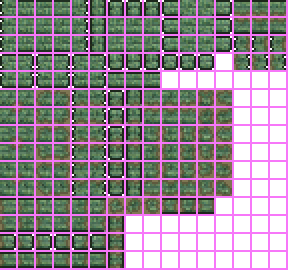
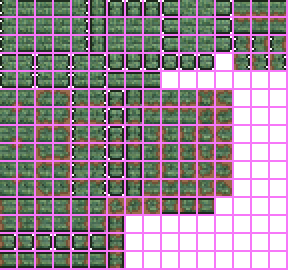
More Vrystak Nines qork

diff --git a/World/Biomes/CrystalMinesTest.cs b/World/Biomes/CrystalMinesTest.cs
@@ -179,6 +179,7 @@ internal class CrystalMinesTest
                         WorldGen.SquareWallFrame(i, j);
                     }
                 }
+
                 #region horizontal tunnels
                 if (j >= origin.Y + tunnel1YPos && j <= origin.Y + tunnel1YPos + tunnelHeight ||
                     j >= origin.Y + tunnel2YPos && j <= origin.Y + tunnel2YPos + tunnelHeight ||
@@ -190,19 +191,34 @@ internal class CrystalMinesTest
                     if (!Main.tileDungeon[tile.TileType] && !Main.wallDungeon[tile.WallType] && tile.TileType != TileID.LihzahrdBrick)
                     {
                         WorldGen.stopDrops = true;
-                        WorldGen.KillTile(i, j, noItem: true);
+                        tile.HasTile = false;
+                        //WorldGen.KillTile(i, j, noItem: true);
                         WorldGen.stopDrops = false;
                     }
                     WorldGen.noTileActions = false;
                 }
                 #endregion horizontal tunnels
 
+                #region wood
+                if (j == origin.Y + tunnel1YPos ||
+                    j == origin.Y + tunnel2YPos ||
+                    j == origin.Y + tunnel3YPos ||
+                    j == origin.Y + tunnel4YPos)
+                {
+                    if (!Main.tileDungeon[tile.TileType] && !Main.wallDungeon[tile.WallType] && tile.TileType != TileID.LihzahrdBrick)
+                    {
+                        WorldGen.PlaceTile(i, j, TileID.WoodBlock, true);
+                    }
+                }
+                #endregion
+
                 #region vertical tunnels
                 if (j >= origin.Y + tunnel1YPos && j <= origin.Y + tunnel2YPos &&
                     i >= vTunnel1PosStart && i <= vTunnel1PosEnd)
                 {
                     WorldGen.noTileActions = true;
-                    if (!Main.tileDungeon[tile.TileType] && !Main.wallDungeon[tile.WallType] && tile.TileType != TileID.LihzahrdBrick)
+                    if (!Main.tileDungeon[tile.TileType] && !Main.wallDungeon[tile.WallType] && tile.TileType != TileID.LihzahrdBrick &&
+                         tile.TileType != TileID.WoodBlock)
                         tile.HasTile = false;
                     WorldGen.noTileActions = false;
                 }
@@ -210,7 +226,8 @@ internal class CrystalMinesTest
                     i >= vTunnel2PosStart && i <= vTunnel2PosEnd)
                 {
                     WorldGen.noTileActions = true;
-                    if (!Main.tileDungeon[tile.TileType] && !Main.wallDungeon[tile.WallType] && tile.TileType != TileID.LihzahrdBrick)
+                    if (!Main.tileDungeon[tile.TileType] && !Main.wallDungeon[tile.WallType] && tile.TileType != TileID.LihzahrdBrick &&
+                         tile.TileType != TileID.WoodBlock)
                         tile.HasTile = false;
                     WorldGen.noTileActions = false;
                 }
@@ -218,7 +235,8 @@ internal class CrystalMinesTest
                     i >= vTunnel3PosStart && i <= vTunnel3PosEnd)
                 {
                     WorldGen.noTileActions = true;
-                    if (!Main.tileDungeon[tile.TileType] && !Main.wallDungeon[tile.WallType] && tile.TileType != TileID.LihzahrdBrick)
+                    if (!Main.tileDungeon[tile.TileType] && !Main.wallDungeon[tile.WallType] && tile.TileType != TileID.LihzahrdBrick &&
+                         tile.TileType != TileID.WoodBlock)
                         tile.HasTile = false;
                     WorldGen.noTileActions = false;
                 }
@@ -226,7 +244,8 @@ internal class CrystalMinesTest
                     i >= vTunnel4PosStart && i <= vTunnel4PosEnd)
                 {
                     WorldGen.noTileActions = true;
-                    if (!Main.tileDungeon[tile.TileType] && !Main.wallDungeon[tile.WallType] && tile.TileType != TileID.LihzahrdBrick)
+                    if (!Main.tileDungeon[tile.TileType] && !Main.wallDungeon[tile.WallType] && tile.TileType != TileID.LihzahrdBrick &&
+                         tile.TileType != TileID.WoodBlock)
                         tile.HasTile = false;
                     WorldGen.noTileActions = false;
                 }

diff --git a/AvalonWorld.cs b/AvalonWorld.cs
@@ -285,13 +285,12 @@ public class AvalonWorld : ModSystem
         {
             float Strength = ModContent.GetInstance<BiomeTileCounts>().TropicsTiles / 200f;
             Strength = Math.Min(Strength, 1f);
-            // DOES NOT MAKE SKY ORANGE
             int sunR = backgroundColor.R;
             int sunG = backgroundColor.G;
             int sunB = backgroundColor.B;
             sunR -= (int)(0f * Strength * 2 * (backgroundColor.R / 255f));
-            sunB -= (int)(200f * Strength * 2 * (backgroundColor.B / 255f));
-            sunG -= (int)(50f * Strength * 2 * (backgroundColor.G / 255f));
+            sunB -= (int)(100f * Strength * 1.85f * (backgroundColor.B / 255f)); // 200
+            sunG -= (int)(50f * Strength * 1.85f * (backgroundColor.G / 255f)); // 50
             sunR = Utils.Clamp(sunR, 15, 255);
             sunG = Utils.Clamp(sunG, 15, 255);
             sunB = Utils.Clamp(sunB, 15, 255);
@@ -487,8 +486,8 @@ public class AvalonWorld : ModSystem
     }
     public void CrystalMinesCallback(object threadContext)
     {
-        if (!SuperHardmode)
-            return;
+        //if (!SuperHardmode)
+        //    return;
         if (Main.netMode == NetmodeID.SinglePlayer)
         {
             Main.NewText("Otherworldly crystals begin to grow...", 176, 153, 214); // [c/7BBAE4:The ot][c/90ABDD:herwo][c/A3A0D9:rldly] [c/B099D6:cryst][c/BA92D4:als] [c/BA92D4:be][c/C88AD1:gin to] [c/D881CD:grow][c/E37BCB:...]
@@ -496,6 +495,29 @@ public class AvalonWorld : ModSystem
         else if (Main.netMode == NetmodeID.Server)
         {
             ChatHelper.BroadcastChatMessage(NetworkText.FromLiteral("Otherworldly crystals begin to grow..."), new Color(176, 153, 214));
+        }
+        float num611 = Main.maxTilesX * Main.maxTilesY / 5040000f;
+        int amtOfBiomes = (int)((float)(Main.maxTilesX / 4200) * 2 + 1);
+        //int num612 = (int)(WorldGen.genRand.Next(2, 4) * num611);
+        float num613 = (Main.maxTilesX - 160) / amtOfBiomes;
+        int num614 = 0;
+        while (num614 < amtOfBiomes) // amtofbiomes
+        {
+            float num615 = (float)num614 / amtOfBiomes;
+            Point point = WorldGen.RandomRectanglePoint((int)(num615 * (Main.maxTilesX - 160)) + 80, (int)Main.rockLayer + 20, (int)num613, Main.maxTilesY - ((int)Main.rockLayer + 40) - 250);
+            //CrystalMinesRunner(point.X, point.Y, 150, 150);
+            //Biomes<World.Biomes.CrystalMinesHouseBiome>.Place(new Point(point.X, point.Y), null);
+            //num614++;
+            WorldGenConfiguration config = WorldGenConfiguration.FromEmbeddedPath("Terraria.GameContent.WorldBuilding.Configuration.json");
+            //World.Biomes.CrystalMines crystalMines = config.CreateBiome<Biomes.CrystalMines>();
+            if (World.Biomes.CrystalMinesTest.Place(point))//World.Biomes.CrystalMinesTest
+            {
+                World.Biomes.CrystalMinesHouseBiome crystalHouse = config.CreateBiome<World.Biomes.CrystalMinesHouseBiome>();
+                int xpos = WorldGen.genRand.Next(point.X + 20, point.X + 30);
+                int ypos = WorldGen.genRand.Next(point.Y + 20, point.Y + 30);
+                crystalHouse.Place(new Point(xpos, ypos), null);
+                num614++;
+            }
         }
     }
     public static void ChangeRain()

diff --git a/Tiles/CrystalWood.cs b/Tiles/CrystalWood.cs
@@ -1,0 +1,87 @@
+using Microsoft.Xna.Framework;
+using Terraria;
+using Terraria.ModLoader;
+using Terraria.ID;
+using Microsoft.Xna.Framework.Graphics;
+using Terraria.DataStructures;
+
+namespace Avalon.Tiles;
+
+public class CrystalWood : ModTile
+{
+    Color c1 = new Color(123, 186, 228);
+    Color c2 = new Color(144, 171, 221);
+    Color c3 = new Color(163, 160, 216);
+    Color c4 = new Color(176, 153, 214);
+    Color c5 = new Color(186, 146, 212);
+    Color c6 = new Color(200, 138, 209);
+    Color c7 = new Color(216, 129, 205);
+    Color c8 = new Color(227, 123, 203);
+    public override void SetStaticDefaults()
+    {
+        AddMapEntry(new Color(154, 149, 247));
+        Main.tileSolid[Type] = true;
+        Main.tileMergeDirt[Type] = true;
+        Main.tileBlockLight[Type] = true;
+        Main.tileMerge[Type][TileID.SnowBlock] = true;
+        Main.tileMerge[TileID.SnowBlock][Type] = true;
+        Main.tileMerge[Type][TileID.Ebonstone] = true;
+        Main.tileMerge[TileID.Ebonstone][Type] = true;
+        Main.tileMerge[Type][TileID.Crimstone] = true;
+        Main.tileMerge[TileID.Crimstone][Type] = true;
+        Main.tileMerge[Type][TileID.Stone] = true;
+        Main.tileMerge[TileID.Stone][Type] = true;
+        Main.tileMerge[Type][TileID.Mud] = true;
+        Main.tileMerge[TileID.Mud][Type] = true;
+        ItemDrop = ModContent.ItemType<Items.Placeable.Tile.CrystalWood>();
+        DustType = ModContent.DustType<Dusts.CrystalDust>();
+        MinPick = 400;
+    }
+
+    //public override void NearbyEffects(int i, int j, bool closer)
+    //{
+    //    if (Main.rand.NextBool(7000))
+    //    {
+    //        int num162 = Dust.NewDust(new Vector2(i * 16, j * 16), 16, 16, ModContent.DustType<Dusts.CrystalDust>(), 0f, 0f, 0, default,
+    //            0.75f);
+    //        Main.dust[num162].noGravity = true;
+    //        Main.dust[num162].velocity *= 0.8f;
+    //        Main.dust[num162].scale *= 1.5f;
+    //    }
+    //}
+    public override void DrawEffects(int i, int j, SpriteBatch spriteBatch, ref TileDrawInfo drawInfo)
+    {
+        if (i % 14 == 0 || i % 14 == 13)
+        {
+            drawInfo.finalColor = c1;
+        }
+        else if (i % 14 == 1 || i % 14 == 12)
+        {
+            drawInfo.finalColor = c2;
+        }
+        else if (i % 14 == 2 || i % 14 == 11)
+        {
+            drawInfo.finalColor = c3;
+        }
+        else if (i % 14 == 3 || i % 14 == 10)
+        {
+            drawInfo.finalColor = c4;
+        }
+        else if (i % 14 == 4 || i % 14 == 9)
+        {
+            drawInfo.finalColor = c5;
+        }
+        else if (i % 14 == 5 || i % 14 == 8)
+        {
+            drawInfo.finalColor = c6;
+        }
+        else if (i % 14 == 6 || i % 14 == 7)
+        {
+            drawInfo.finalColor = c7;
+        }
+        else if (i % 14 == 7)
+        {
+            drawInfo.finalColor = c8;
+        }
+    }
+}

diff --git a/AvalonGlobalNPC.cs b/AvalonGlobalNPC.cs
@@ -1403,6 +1403,17 @@ public class AvalonGlobalNPC : GlobalNPC
 
     public override void EditSpawnPool(IDictionary<int, float> pool, NPCSpawnInfo spawnInfo)
     {
+        if (spawnInfo.Player.GetModPlayer<ExxoBiomePlayer>().ZoneTropics)
+        {
+            pool.Clear();
+            pool.Add(ModContent.NPCType<Rafflesia>(), 0.6f);
+            pool.Add(ModContent.NPCType<TropicalSlime>(), 0.9f);
+            if (Main.hardMode)
+            {
+                pool.Add(ModContent.NPCType<PoisonDartFrog>(), 0.9f);
+            }
+        }
+
         if (spawnInfo.Player.GetModPlayer<ExxoBiomePlayer>().ZoneSkyFortress)
         {
             pool.Clear();
@@ -1468,6 +1479,11 @@ public class AvalonGlobalNPC : GlobalNPC
 
     public override void EditSpawnRate(Player player, ref int spawnRate, ref int maxSpawns)
     {
+        if (player.GetModPlayer<ExxoBiomePlayer>().ZoneTropics)
+        {
+            spawnRate = (int)(spawnRate * 0.4f);
+            maxSpawns = (int)(maxSpawns * 1.5f);
+        }
         if (player.GetModPlayer<ExxoBuffPlayer>().AdvancedBattle)
         {
             spawnRate = (int)(spawnRate * AdvBattle.RateMultiplier);

diff --git a/Items/Placeable/Tile/CrystalWood.cs b/Items/Placeable/Tile/CrystalWood.cs
@@ -1,0 +1,29 @@
+using Microsoft.Xna.Framework;
+using Terraria.ID;
+using Terraria.ModLoader;
+
+namespace Avalon.Items.Placeable.Tile;
+
+class CrystalWood : ModItem
+{
+    public override void SetStaticDefaults()
+    {
+        DisplayName.SetDefault("Crystal Wood");
+        SacrificeTotal = 100;
+    }
+
+    public override void SetDefaults()
+    {
+        Rectangle dims = this.GetDims();
+        Item.autoReuse = true;
+        Item.consumable = true;
+        Item.createTile = ModContent.TileType<Tiles.CrystalWood>();
+        Item.width = dims.Width;
+        Item.useTime = 10;
+        Item.useTurn = true;
+        Item.useStyle = ItemUseStyleID.Swing;
+        Item.maxStack = 999;
+        Item.useAnimation = 15;
+        Item.height = dims.Height;
+    }
+}

diff --git a/Items/Tools/WorldgenHelper.cs b/Items/Tools/WorldgenHelper.cs
@@ -48,7 +48,7 @@ class WorldgenHelper : ModItem
         //World.Passes.HallowedAltars.Generate();
         //NPC.SetEventFlagCleared(ref ModContent.GetInstance<DownedBossSystem>().DownedArmageddon, -1);
         //Task.Run(AvalonWorld.GenerateSkyFortress);
-        //ModContent.GetInstance<AvalonWorld>().GenerateCrystalMines();
+        ModContent.GetInstance<AvalonWorld>().GenerateCrystalMines();
         //World.Tests.MakeZigZag(x, y, TileID.Titanium, WallID.Wood);
         //World.Structures.CaesiumSpike.CreateSpikeUp((int)player.position.X / 16, (int)player.position.Y / 16, (ushort)ModContent.TileType<Tiles.Ores.CaesiumOre>());
         //World.Structures.IceShrine.Generate((int)player.position.X / 16, (int)player.position.Y / 16);

diff --git a/Walls/CrystalStoneWall.cs b/Walls/CrystalStoneWall.cs
@@ -1,7 +1,6 @@
-using Microsoft.Xna.Framework;
+using Microsoft.Xna.Framework;
 using Terraria.ModLoader;
 using Terraria.ID;
-using Microsoft.Xna.Framework.Graphics;
 
 namespace Avalon.Walls;
 
@@ -9,11 +8,7 @@ public class CrystalStoneWall : ModWall
 {
     public override void SetStaticDefaults()
     {
-        AddMapEntry(new Color(86, 51, 76));
+        AddMapEntry(new Color(103, 127, 195));
         DustType = DustID.PinkCrystalShard;
     }
-    //public override void PostDraw(int i, int j, SpriteBatch spriteBatch)
-    //{
-    //    //spriteBatch.Draw();
-    //}
 }
